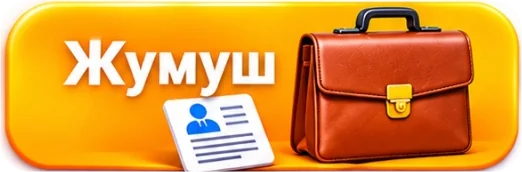
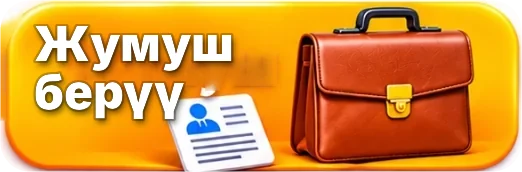
Жаңы категориялар: Жумуш берүү, Жумуш издөө, Автоунаа сатуу
Claude-Session: https://claude.ai/code/session_01QqaFd8xrjxrPNT2kivSLtF

Changed region(s): [[0.0, 0.0872, 0.5517, 0.7267]]

diff --git a/static/index.html b/static/index.html
@@ -309,7 +309,9 @@ const I={
   tag:'<path d="M3 12V4h8l10 10-8 8z M7.5 8.5h.01"/>'
 };
 const CATS=[
- {id:"job",nm:"Жумуш",ic:"work",subs:["Курулуш","Склад / сортировка","Курьер","Клининг","Такси / айдоочу","Кафе / тамак-аш","Башка жумуш"],unit:["күнүнө","жумасына","айына","саатына"]},
+ {id:"job",nm:"Жумуш берүү",ic:"work",subs:["Курулуш","Склад / сортировка","Курьер","Клининг","Такси / айдоочу","Кафе / тамак-аш","Башка жумуш"],unit:["күнүнө","жумасына","айына","саатына"]},
+ {id:"jobseek",nm:"Жумуш издөө",ic:"work",subs:["Курулуш","Склад / сортировка","Курьер","Клининг","Такси / айдоочу","Кафе / тамак-аш","Үй жумушу / бала багуу","Башка жумуш"],unit:["күнүнө","айына","саатына"]},
+ {id:"carsale",nm:"Автоунаа сатуу",ic:"car",subs:["Жеңил унаа","Жүк ташуучу / бус","Мотоцикл / скутер","Бөлүп төлөө / кредит","Ижарага унаа"],unit:["даана","айына","күнүнө"]},
  {id:"house",nm:"Турак жай",ic:"home",subs:["Койка-место","Бөлмө","Батир","Конок үй"],unit:["айына","күнүнө","жумасына"]},
  {id:"law",nm:"Юридикалык кызмат",ic:"law",subs:["Патент","Регистрация","РВП / ВНЖ","Жарандык","Эмгек келишими","Депорт / тыюу маселеси","Консультация"]},
  {id:"fin",nm:"Акча которуу, каржы",ic:"money",subs:["Акча которуу","Микрокредит / заем"]},
@@ -320,18 +322,20 @@ const CATS=[
  {id:"beauty",nm:"Сулуулук",ic:"scissor",subs:["Эркек мастер","Аял мастер","Маникюр / косметолог"]},
  {id:"food",nm:"Тамак-аш, кафе",ic:"food",subs:["Халал эт","Мекен азыктары","Кафе / той-аш","Тамак жеткирүү"],unit:["кг","даана","кишиге"]},
  {id:"edu",nm:"Билим жана курстар",ic:"edu",subs:["Орус тили","Англис тили","Патентке экзамен (тил, тарых, мыйзам)","Бухгалтерия","IT курстар","Маникюр / чачтарач курсу","Айдоочулук курс","Башка кесип","Мектепке / бала бакчага даярдоо"],unit:["айына","курс үчүн","сабак үчүн"]},
- {id:"auto",nm:"Авто кызмат",ic:"car",subs:["Машина оңдоо","Автотетиктер","Унаа сатуу / сатып алуу","Унаа каттоо, техосмотр, ОСАГО","Права алмаштыруу / консультация","Шиномонтаж / автожуучу"],unit:["даана","кызмат үчүн"]},
+ {id:"auto",nm:"Авто кызмат",ic:"car",subs:["Машина оңдоо","Автотетиктер","Унаа каттоо, техосмотр, ОСАГО","Права алмаштыруу / консультация","Шиномонтаж / автожуучу"],unit:["даана","кызмат үчүн"]},
  {id:"help",nm:"Кайрымдуулук, колдоо",ic:"heart",subs:["Жардам керек","Акча чогултуу","Фонддор","Диаспора / элчилик кулактандыруулары","Юридикалык / социалдык борборлор","Жоголгон адам / документ"]},
  {id:"market",nm:"Барахолка",ic:"tag",subs:["Телефон / техника","Тиричилик техникасы","Эмерек","Кийим-кечек","Балдар үчүн","Алмашуу","Бекер берем"],unit:["даана"]}
 ];
 const CAT=Object.fromEntries(CATS.map(c=>[c.id,c]));
-const CAT_ORDER=["job","house","law","fin","cargo","ride","ticket","med","food","beauty","help","edu","auto","market"];
-const CIMG={job:[522,172],house:[524,172],law:[523,162],fin:[523,162],cargo:[522,150],ride:[522,150],ticket:[520,141],med:[521,141],food:[516,148],beauty:[523,148],help:[524,162],edu:[520,162],auto:[524,182],market:[524,182]};
-const CCOL={job:["#B8700F","#FCE6BF"],house:["#178A66","#CFF2E4"],law:["#5148B5","#DEDBFC"],fin:["#3E7314","#DCEFC4"],cargo:["#D0532A","#FFDCCD"],ride:["#185FA5","#CFE3F8"],ticket:["#2C7FD1","#D9EAFB"],med:["#D63B3A","#FFD8D8"],beauty:["#C9467A","#FAD6E4"],food:["#8E3818","#F7D2C2"],edu:["#6A3FB5","#E5DAFB"],auto:["#44515E","#DCE3EA"],help:["#C8102E","#FFD6DC"],market:["#0E7C86","#CDEFF1"]};
+const CAT_ORDER=["job","jobseek","carsale","house","law","fin","cargo","ride","ticket","med","food","beauty","help","edu","auto","market"];
+const CIMG={job:[522,172],jobseek:[522,172],carsale:[522,172],house:[524,172],law:[523,162],fin:[523,162],cargo:[522,150],ride:[522,150],ticket:[520,141],med:[521,141],food:[516,148],beauty:[523,148],help:[524,162],edu:[520,162],auto:[524,182],market:[524,182]};
+const CCOL={jobseek:["#1E6EEB","#D6E6FD"],carsale:["#C8102E","#FFD6DC"],job:["#B8700F","#FCE6BF"],house:["#178A66","#CFF2E4"],law:["#5148B5","#DEDBFC"],fin:["#3E7314","#DCEFC4"],cargo:["#D0532A","#FFDCCD"],ride:["#185FA5","#CFE3F8"],ticket:["#2C7FD1","#D9EAFB"],med:["#D63B3A","#FFD8D8"],beauty:["#C9467A","#FAD6E4"],food:["#8E3818","#F7D2C2"],edu:["#6A3FB5","#E5DAFB"],auto:["#44515E","#DCE3EA"],help:["#C8102E","#FFD6DC"],market:["#0E7C86","#CDEFF1"]};
 const WARN={
   law:"Патент же документ үчүн толук акчаны алдын ала которбоңуз. Расмий төлөм квитанцияны текшериңиз.",
   fin:"Карта номериңизди, SMS кодду жана паролду эч кимге бербеңиз. Заем алуудан мурун пайызын жазуу түрүндө сураңыз.",
   job:"Паспортуңузду иш берүүчүгө таштап кетпеңиз. Төлөмдү, графикти жана эмгек келишимин жумуштан мурун тактаңыз.",
+  jobseek:"Жумуш табуу үчүн эч кимге алдын ала акча төлөбөңүз. Паспортуңузду иш берүүчүгө таштабаңыз.",
+  carsale:"Унааны жана документтерин көрүп, текшерип туруп сатып алыңыз. Алдын ала акча которбоңуз.",
   house:"Батирди көрбөй туруп алдын ала акча которбоңуз.",
   help:"Акча которуудан мурун адамдын жакындарына же фонддун расмий барагына чалып текшериңиз. Жеке картага чогултулган акчадан сак болуңуз.",
   market:"Буюмду көрүп, текшерип туруп сатып алыңыз. Телефондун IMEI номерин текшериңиз.",
@@ -505,6 +509,9 @@ function sel(el){const r=document.createRange();r.selectNodeContents(el);const s
 /* ===== Акылдуу издөө: «эмне · кайда · канчага» деген сүйлөмдү фильтрлерге которот ===== */
 const CITY_STEMS=[["подмоск","Подмосковье"],["москв","Москва"],["мск","Москва"],["масква","Москва"],["питер","Санкт-Петербург"],["спб","Санкт-Петербург"],["санкт","Санкт-Петербург"],["ленобл","Санкт-Петербург"],["екатер","Екатеринбург"],["екб","Екатеринбург"],["новосиб","Новосибирск"],["якут","Якутск"],["красноя","Красноярск"],["иркут","Иркутск"],["сургут","Сургут"],["нижневарт","Нижневартовск"],["ханты","Ханты-Мансийск"],["тюмен","Тюмень"],["уренго","Новый Уренгой"],["ноябрьск","Ноябрьск"],["мурманск","Мурманск"],["казан","Казань"],["самар","Самара"],["нижн","Нижний Новгород"],["уфа","Уфа"],["уфе","Уфа"],["уфад","Уфа"],["перм","Пермь"],["челяб","Челябинск"],["томск","Томск"],["омск","Омск"],["калуг","Калуга"],["тула","Тула"],["туле","Тула"],["тулад","Тула"],["владимир","Владимир"],["воронеж","Воронеж"],["краснодар","Краснодар"],["ростов","Ростов-на-Дону"],["владивост","Владивосток"],["хабар","Хабаровск"]];
 const KW=[
+ [["жумуш изде","иш изде","ищу работ","резюме","иштейм","иштегим"],"jobseek",null],
+ [["тойота","toyota","хонда","honda","лада","приора","хендай","hyundai","киа","kia","лексус","мерседес","машина сат","унаа сат","авто сат","продам авто","продаю авто","продам машин","продаю машин"],"carsale","Жеңил унаа"],
+ [["мотоцикл","скутер","мопед"],"carsale","Мотоцикл / скутер"],
  [["койка","койко","местечк"],"house","Койка-место"],[["бөлмө","болмо","комнат"],"house","Бөлмө"],[["батир","квартир","суткал","посуточ"],"house","Батир"],[["конок","гостиниц","хостел"],"house","Конок үй"],[["ижара","аренд","турак"],"house",null],
  [["склад","сортиров","грузчик"],"job","Склад / сортировка"],[["курьер"],"job","Курьер"],[["курулуш","стройк","строител","разнорабоч"],"job","Курулуш"],[["клининг","уборщ","уборк","тазала"],"job","Клининг"],[["таксист","айдоочу","водител"],"job","Такси / айдоочу"],[["повар","официант","посудомой","ашпоз"],"job","Кафе / тамак-аш"],[["жумуш","работ","ваканс"],"job",null],
  [["патент"],"law","Патент"],[["регистрац","каттоо","прописк"],"law","Регистрация"],[["рвп","внж"],"law","РВП / ВНЖ"],[["жарандык","гражданств"],"law","Жарандык"],[["депорт","запрет","тыюу","выдворен"],"law","Депорт / тыюу маселеси"],[["юрист","адвокат","консультац"],"law",null],
@@ -539,7 +546,7 @@ function smartParse(raw){
   if(!out.city){for(const [st,c] of CITY_STEMS){const rx=new RegExp("\\s"+st+"\\S*");const mm=t.match(rx);if(mm){out.city=c;cut(mm[0]);break}}}
   for(const [keys,cat,sub] of KW){for(const k of keys){
     const rx=new RegExp((k.includes(" ")?"":"\\s")+k.trim()+"\\S*");const mm=t.match(rx);
-    if(mm){if(!out.cat){out.cat=cat;out.sub=sub}else if(out.cat===cat&&!out.sub&&sub)out.sub=sub;cut(mm[0])}}}
+    if(mm){if(!out.cat){out.cat=cat;out.sub=sub}else if((out.cat===cat||(out.cat==="jobseek"&&cat==="job"))&&!out.sub&&sub)out.sub=sub;cut(mm[0])}}}
   const stop=new Set(["керек","издейм","изде","бар","жок","үчүн","учун","для","нужен","нужна","нужно","ищу","в","на","и","менен","жана","арзан","дешево","срочно","тез","ге","га","дан","ден","тан","тен"]);
   out.words=t.split(" ").filter(w=>w.length>=3&&!stop.has(w)&&!/^\d+$/.test(w));
   if(out.cat||out.city)out.words=[]; // категория же шаар табылса, калган сөздөр фильтр болбойт

diff --git a/static/sw.js b/static/sw.js
@@ -1,5 +1,5 @@
 // БИЗ БИРГЕБИЗ! service worker: барак офлайн ачылат, жарыялар дайыма серверден алынат.
-const CACHE = "birgebiz-v11";
+const CACHE = "birgebiz-v12";
 const SHELL = ["/", "/manifest.webmanifest", "/static/icon.svg", "/static/icon-192.png"];
 
 self.addEventListener("install", (e) => {

diff --git a/app.py b/app.py
@@ -33,7 +33,7 @@ MAX_POSTS_PER_IP_HOUR = 6  # бир IPден саатына
 AD_LIFETIME_DAYS = 60      # жарыя ушунча күндөн кийин тизмеден чыгат
 
 CATS = {
-    "job", "house", "law", "fin", "cargo", "ride", "ticket", "med",
+    "job", "jobseek", "carsale", "house", "law", "fin", "cargo", "ride", "ticket", "med",
     "beauty", "food", "edu", "auto", "help", "market",
 }
 
